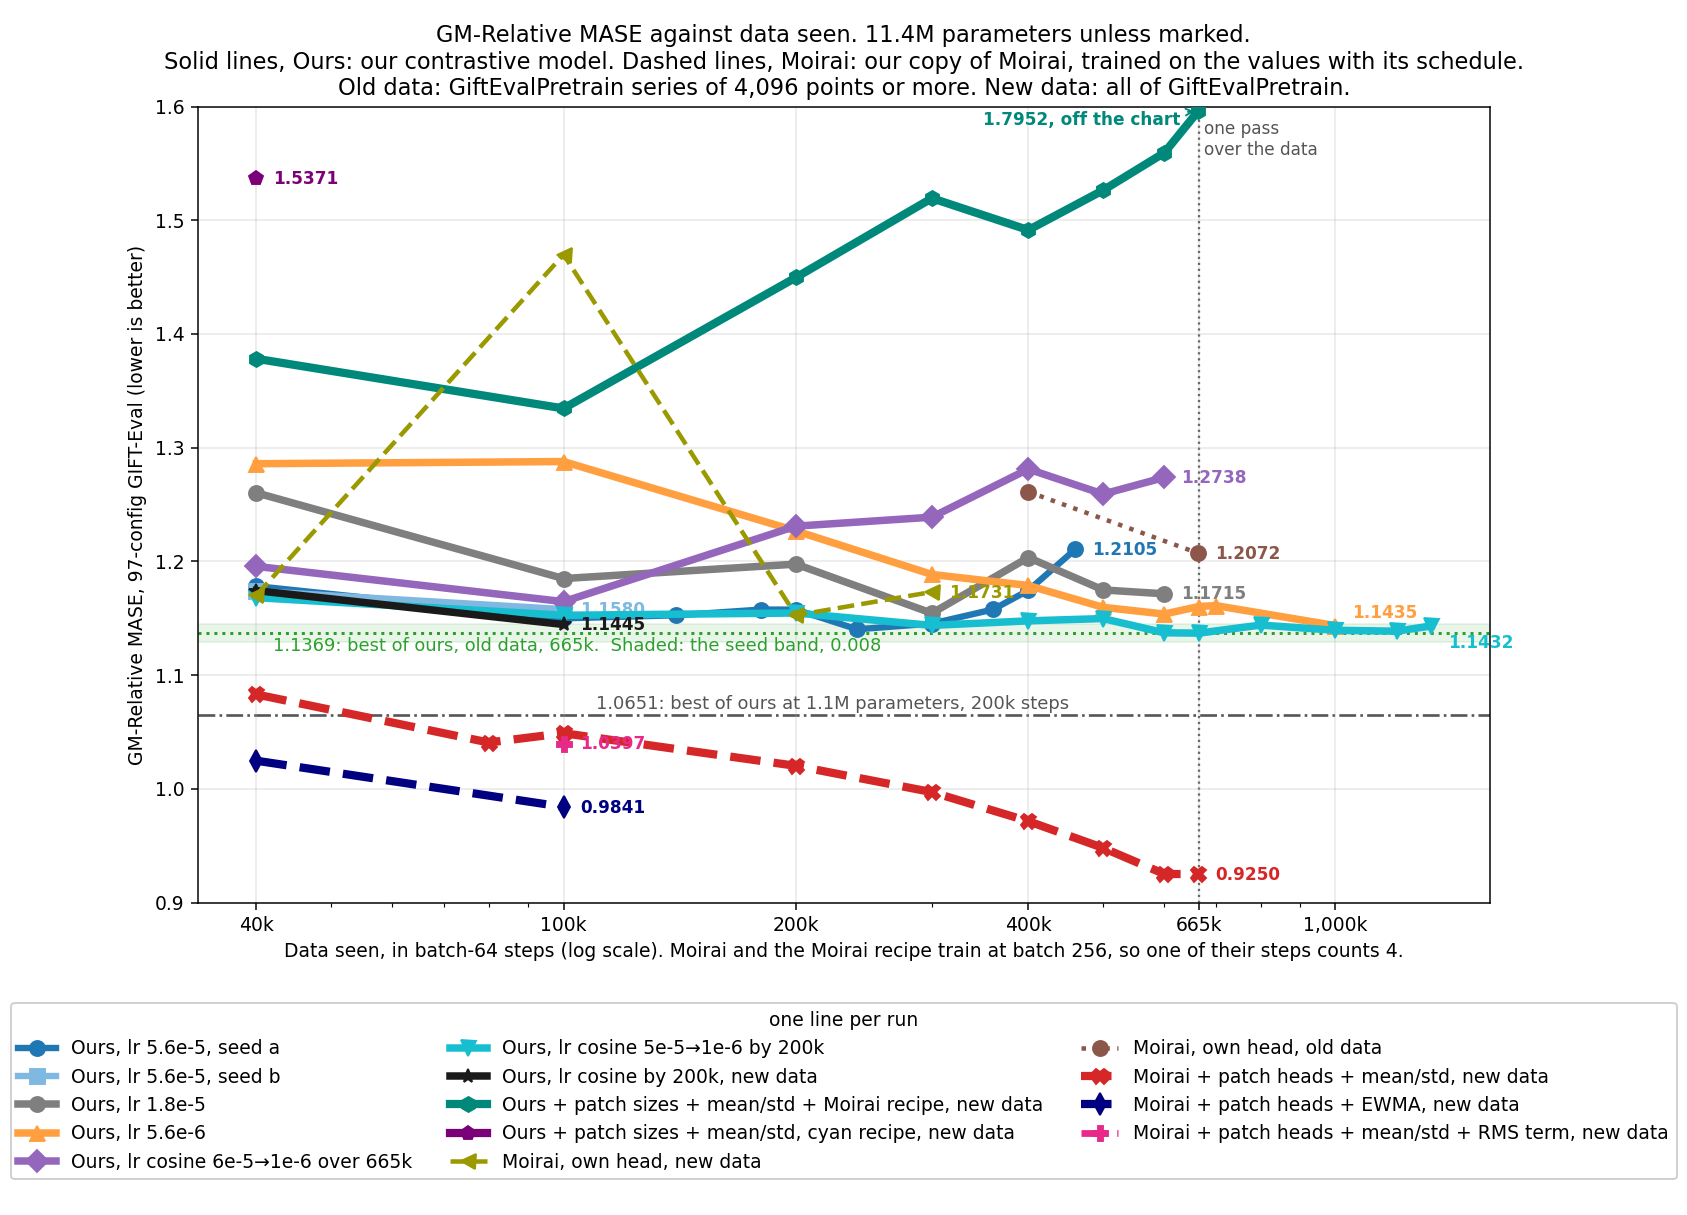
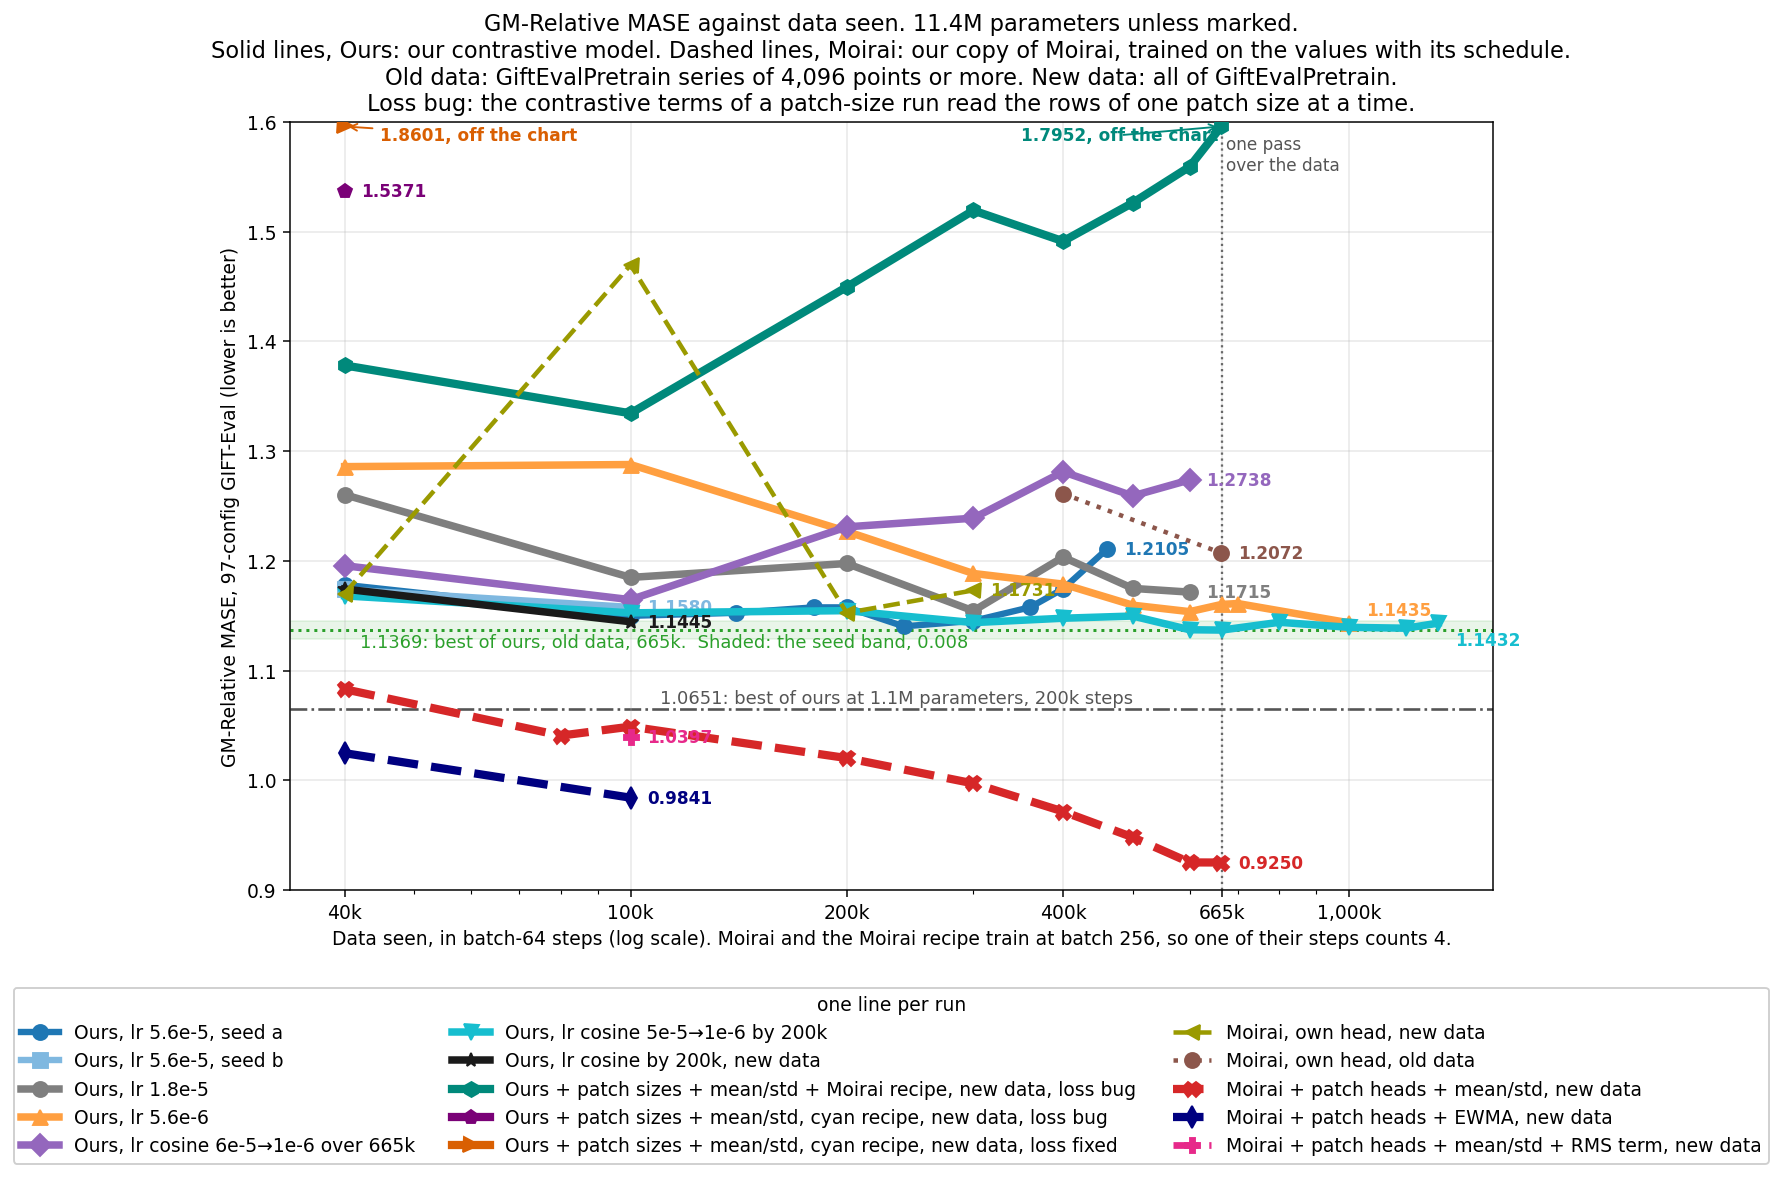
exp(#412): #412oc2, the fixed objective, scores 1.8601 at 40k
#412oc2 enters the GM, radar and loss-terms figures as a dark orange
line. The labels of #412om and #412oc now say "loss bug", the label of
#412oc2 "loss fixed", and the titles say what the bug was. The GM
figure saves with its whole legend.

diff --git a/reports/2026-09-06_moirai_small_size/scripts/plot_loss_terms_412.py b/reports/2026-09-06_moirai_small_size/scripts/plot_loss_terms_412.py
@@ -41,12 +41,14 @@ SOURCES = {
     "cf412om": (["cf-412om/leg_150k_try1"] + [f"cf-412om/leg_{k}k" for k in
                 (10, 25, 50, 75, 100, 125, 150, 166)], "cf412om_k3_losses.csv", 4),
     "cf412oc": ([f"cf-412oc/leg_{k}k" for k in (40, 100, 200)], "cf412oc_k3_losses.csv", 1),
+    "cf412oc2": ([f"cf-412oc2/leg_{k}k" for k in (40, 100, 200)], "cf412oc2_k3_losses.csv", 1),
     CYAN: ([f"{CYAN}/arm6_v2_combab_alignT/leg_665k"],
            "cf393_arm6_v2_combab_alignT_cf373k3_cf412_" + CYAN + "_losses.csv", 1),
 }
 TERMS = ["loss", "l_align", "sigreg_e", "sigreg_h", "top1", "grad_norm"]
-LABEL = {"cf412om": "Ours + patch sizes + mean/std + Moirai recipe (batch 256)",
-         "cf412oc": "Ours + patch sizes + mean/std, cyan recipe (batch 64)",
+LABEL = {"cf412om": "Ours + patch sizes + mean/std + Moirai recipe, loss bug (batch 256)",
+         "cf412oc": "Ours + patch sizes + mean/std, cyan recipe, loss bug (batch 64)",
+         "cf412oc2": "Ours + patch sizes + mean/std, cyan recipe, loss fixed (batch 64)",
          CYAN: "cyan: ours, one patch size, EWMA (batch 64)"}
 PANEL = {"gm": "GM-Relative MASE (lower is better)",
          "loss": "Total training loss",
@@ -166,7 +168,7 @@ def plot():
         ax.set_xticklabels([f"{t // 1000}k" for t in ticks])
     for ax in axes[-1]:
         ax.set_xlabel("Data seen, in batch-64 steps. One #412om step counts 4.")
-    fig.suptitle("#412om against cyan: the score and the training-loss terms on one axis\n"
+    fig.suptitle("#412om, #412oc and #412oc2 against cyan: the score and the training-loss terms on one axis\n"
                  "Each point is the median over 4,000 batch-64 steps. The contrastive terms "
                  "compare rows within a batch,\nso their level depends on the batch size "
                  "(256 for #412om, 64 for the others): compare the shapes of the curves.",

diff --git a/reports/2026-09-06_moirai_small_size/scripts/plot_gm_rates.py b/reports/2026-09-06_moirai_small_size/scripts/plot_gm_rates.py
@@ -30,8 +30,9 @@ RUNS = [
     (P + "_cos665k",  "Ours, lr cosine 6e-5→1e-6 over 665k",      4.0, "D"),
     (P + "_cos200k",  "Ours, lr cosine 5e-5→1e-6 by 200k",        4.0, "v"),
     ("cf419_cos200k", "Ours, lr cosine by 200k, new data",        4.0, "*"),
-    ("cf412om", "Ours + patch sizes + mean/std + Moirai recipe, new data", 4.4, "h"),
-    ("cf412oc", "Ours + patch sizes + mean/std, cyan recipe, new data", 4.4, "p"),
+    ("cf412om", "Ours + patch sizes + mean/std + Moirai recipe, new data, loss bug", 4.4, "h"),
+    ("cf412oc", "Ours + patch sizes + mean/std, cyan recipe, new data, loss bug", 4.4, "p"),
+    ("cf412oc2", "Ours + patch sizes + mean/std, cyan recipe, new data, loss fixed", 4.4, ">"),
     # Moirai: our copy of Moirai, trained on the values with its schedule.
     ("cf419_moirai_native", "Moirai, own head, new data",                2.4, "<"),
     ("cf415_moirai_native", "Moirai, own head, old data",                   2.4, "o"),
@@ -112,13 +113,14 @@ def main():
                  "Solid lines, Ours: our contrastive model. Dashed lines, Moirai: "
                  "our copy of Moirai, trained on the values with its schedule.\n"
                  "Old data: GiftEvalPretrain series of 4,096 points or more. "
-                 "New data: all of GiftEvalPretrain.")
+                 "New data: all of GiftEvalPretrain.\n"
+                 "Loss bug: the contrastive terms of a patch-size run read the rows of one patch size at a time.")
     ax.grid(alpha=0.3)
     ax.set_ylim(YMIN, YMAX)
     ax.legend(fontsize=10, loc="upper center", bbox_to_anchor=(0.5, -0.115),
               ncol=3, framealpha=0.94, title="one line per run")
     fig.tight_layout()
-    fig.savefig(OUT, dpi=135)
+    fig.savefig(OUT, dpi=135, bbox_inches="tight")
     print(f"wrote {OUT}")
 
 

diff --git a/reports/2026-09-06_moirai_small_size/scripts/plot_radar_419.py b/reports/2026-09-06_moirai_small_size/scripts/plot_radar_419.py
@@ -14,8 +14,9 @@ from run_style import P, colour, line
 # CSVs in the radar folder; the owner took them off this figure.
 NEW_DATA = [
     ("cf419_cos200k", "cos419_", "Ours"),
-    ("cf412om", "ours412om_", "Ours + patch sizes + mean/std + Moirai recipe"),
-    ("cf412oc", "ours412oc_", "Ours + patch sizes + mean/std, cyan recipe"),
+    ("cf412om", "ours412om_", "Ours + patch sizes + mean/std + Moirai recipe, loss bug"),
+    ("cf412oc", "ours412oc_", "Ours + patch sizes + mean/std, cyan recipe, loss bug"),
+    ("cf412oc2", "ours412oc2_", "Ours + patch sizes + mean/std, cyan recipe, loss fixed"),
     ("cf421f_moirai_native", "moirai421f_native", "Moirai + patch heads + mean/std"),
     ("cf421ew_moirai_native", "moirai421ew_native", "Moirai + patch heads + EWMA"),
     ("cf421n_moirai_native", "moirai421n_native", "Moirai + patch heads + mean/std + RMS term"),
@@ -25,7 +26,8 @@ OLD_BEST = ("cyan665", "Ours, old data, 665k   1.1369",
 TITLE = ("Relative MASE per GIFT-Eval dataset (geometric mean over its configs), each run at its best checkpoint\n"
          "Solid lines, Ours: our contrastive model. Dashed lines, Moirai: our copy of Moirai.\n"
          "New data: all of GiftEvalPretrain. Old data: its series of 4,096 points or more.\n"
-         "Green ring: seasonal naive (1.0). Inside is better. The hardest datasets are at the top.")
+         "Green ring: seasonal naive (1.0). Inside is better. The hardest datasets are at the top.\n"
+         "Loss bug: the contrastive terms of a patch-size run read the rows of one patch size at a time.")
 
 
 def scored_stops(arm, csv_prefix):

diff --git a/reports/2026-09-06_moirai_small_size/scripts/run_style.py b/reports/2026-09-06_moirai_small_size/scripts/run_style.py
@@ -18,6 +18,7 @@ STYLE = {
     "cf419_cos200k": ("#1a1a1a", OURS),
     "cf412om": ("#00897b", OURS),
     "cf412oc": ("#7a0177", OURS),
+    "cf412oc2": ("#d95f02", OURS),
     "cf415_moirai": ("#8c564b", MOIRAI),
     "cf415_moirai_native": ("#8c564b", ":"),
     "cf419_moirai_native": ("#9a9a00", MOIRAI),
